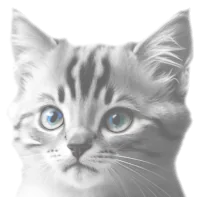
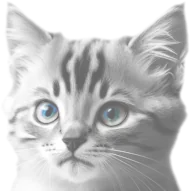
I2PSnark: light theme tweaks

diff --git a/apps/i2psnark/java/src/org/klomp/snark/web/I2PSnarkServlet.java b/apps/i2psnark/java/src/org/klomp/snark/web/I2PSnarkServlet.java
@@ -400,7 +400,7 @@ public class I2PSnarkServlet extends BasicServlet {
         File override = new File(themeBase + "override.css");
         int rnd = _context.random().nextInt(3);
         if (!isStandalone() && rnd == 0 && _manager.getTheme().equals("light")) {
-            out.write("<style type=text/css>#screenlog{background:url(/themes/snark/light/images/k2.webp) no-repeat right center,repeating-linear-gradient(180deg,rgba(255,255,255,.5) 2px,rgba(220,220,255,.5) 4px),var(--snarkGraph) no-repeat,var(--th);background-size:60px auto,100%,calc(100% - 80px) calc(100% - 4px),100%;background-position:right bottom,center center,left bottom,center center;background-blend-mode:multiply,overlay,luminosity,normal}</style>\n");
+            out.write("<style type=text/css>#screenlog{background:url(/themes/snark/light/images/k2.webp) no-repeat right center,repeating-linear-gradient(180deg,rgba(255,255,255,.5) 2px,rgba(220,220,255,.5) 4px),var(--snarkGraph) no-repeat,var(--th);background-size:66px auto,100%,calc(100% - 80px) calc(100% - 4px),100%;background-position:right 5px bottom,center center,left bottom,center center;background-blend-mode:multiply,overlay,luminosity,normal}</style>\n");
         }
         if (!isStandalone() && useSoraFont()) {
             out.write("<link rel=stylesheet type=text/css href=/themes/fonts/Sora.css>");
